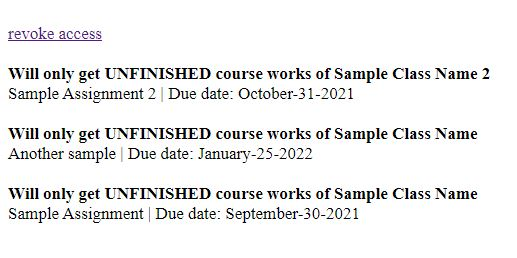
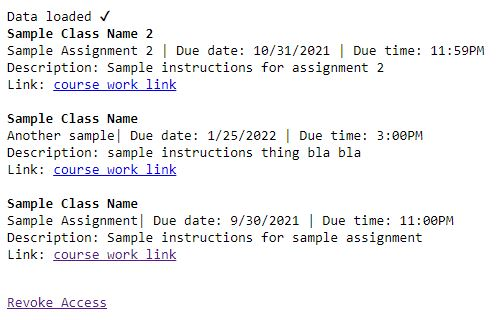
added ajax calls

Changed region(s): [[0.0, 0.031, 0.998, 0.8682], [0.0, 0.9302, 0.2117, 0.9922], [0.756, 0.4031, 0.877, 0.4341]]

diff --git a/script.js b/script.js
@@ -1,0 +1,82 @@
+let currentURL = window.location.href;
+let url = new URL(currentURL);
+let code = url.searchParams.get("code");
+
+let grantAccess = document.querySelector('#grantAccess');
+let data = document.querySelector('#data');
+
+let collection;
+
+const xhttp = new XMLHttpRequest();
+// initial loadout
+getAuthURL();
+
+if(code != null){
+    grantAccess.classList.add('hide-grant-acess');
+    data.innerHTML = 'Waiting for data to load...';
+    getCollection();
+}else{
+    console.log('no access code');
+}
+
+// puts the created auth url in the href
+function getAuthURL(){
+    xhttp.onload = function(){
+        if (this.readyState == 4 && this.status == 200) {
+            grantAccess.setAttribute('href', this.responseText);
+        }
+    }
+    xhttp.open("GET", "api.php", true);
+    xhttp.send();
+}
+
+function getCollection(){
+    xhttp.onload = function(){
+        if (this.readyState==4 && this.status == 200) {
+            collection = JSON.parse(this.response);
+            data.innerHTML = arrangingData(collection);
+        }
+    }
+    xhttp.open('POST', 'api.php?code=' + code, true);
+    xhttp.send();
+
+}
+
+function arrangingData(collection){
+    let html = 'Data loaded &#10004;<br>';
+        collection.forEach(element => {
+            let dueDate = element.dueDate;
+            let dueTime = element.dueTime;
+            https://stackoverflow.com/questions/6525538/convert-utc-date-time-to-local-date-time
+            var date = new Date(dueDate.month.toString() + '/' + dueDate.day.toString() + '/' + dueDate.year.toString() + ' ' +
+                (dueTime.hours == null ? '00' : dueTime.hours.toString()) + ':' +
+                (dueTime.minutes == null ? '00' : dueTime.minutes.toString()) + ' UTC');
+
+            let hours = date.getHours() == '0' ? '00' : date.getHours();
+            let minutes = date.getMinutes() == '0' ? '00' : date.getMinutes();
+
+            html += '<b>' + element.courseName + '</b><br>';
+            html += element.title + '| Due date: ' +
+                dueDate.month + '/' +
+                dueDate.day + '/' +
+                dueDate.year +' | Due time: '+
+                    timeConvert(hours + ':' + minutes) + '<br>' +
+                'Description: ' + element.description + '<br>' +
+                'Link: ' + '<a href=' + element.alternateLink + '>course work link</a>' +
+                '<br><br>'
+        });
+    return html;
+}
+
+// https://stackoverflow.com/questions/13898423/javascript-convert-24-hour-time-of-day-string-to-12-hour-time-with-am-pm-and-no
+function timeConvert (time) {
+    // Check correct time format and split into components
+    time = time.toString ().match (/^([01]\d|2[0-3])(:)([0-5]\d)(:[0-5]\d)?$/) || [time];
+  
+    if (time.length > 1) { // If time format correct
+      time = time.slice (1);  // Remove full string match value
+      time[5] = +time[0] < 12 ? 'AM' : 'PM'; // Set AM/PM
+      time[0] = +time[0] % 12 || 12; // Adjust hours
+    }
+    return time.join (''); // return adjusted time or original string
+}

diff --git a/index.html b/index.html
@@ -1,0 +1,16 @@
+<!DOCTYPE html>
+<html lang="en">
+<head>
+    <meta charset="UTF-8">
+    <meta http-equiv="X-UA-Compatible" content="IE=edge">
+    <meta name="viewport" content="width=device-width, initial-scale=1.0">
+    <script src="script.js" defer></script>
+    <link rel="stylesheet" href="style.css">
+    <title>Document</title>
+</head>
+<body>
+    <a id=grantAccess href="#"><pre>Grant Access</pre></a>
+    <pre id='data'></pre>
+    <pre><a href="revoke.php">Revoke Access</a></pre>
+</body>
+</html>

diff --git a/style.css b/style.css
@@ -1,0 +1,3 @@
+.hide-grant-acess{
+    display: none;
+}

diff --git a/api.php b/api.php
@@ -1,0 +1,50 @@
+<?php
+
+use function PHPSTORM_META\type;
+
+include('config.php');
+$course_collection = [];
+$coursework_collection = [];
+$collection = [];
+
+$flag = 0;
+if (isset($_GET['code'])) {
+    $token = $client->fetchAccessTokenWithAuthCode($_GET['code']);
+    if (!isset($token['error'])) {
+        $client->setAccessToken($token['access_token']);
+        $_SESSION['access_token'] = $token['access_token'];
+    }
+}
+
+if (isset($_SESSION['access_token'])) {
+    $client->setAccessToken($_SESSION['access_token']);
+    $service = new Google\Service\Classroom($client);
+    $data_courses = $service->courses->listCourses()->getCourses();
+    $data_courseWorks =  $service->courses_courseWork;
+    $data_studentSubmissions = $service->courses_courseWork_studentSubmissions;
+
+    foreach ($data_courses as $course) {
+        foreach ($data_courseWorks->listCoursesCourseWork($course->getId()) as $courseWork) {
+            foreach ($data_studentSubmissions->listCoursesCourseWorkStudentSubmissions($course->getId(), $courseWork->getId()) as $studentSubmission) {
+                if ($studentSubmission->getState() == 'CREATED') {
+                    if (is_null($courseWork->getDueDate())) {
+                        echo 'No data';
+                        $flag = 1;
+                        return;
+                    } else {
+                        $courseWork->courseName = $course->getname();
+                        array_push($collection, $courseWork);
+                    }
+                }
+            }
+        }
+    }
+    if($flag==0){
+        echo json_encode($collection);
+        // echo '<pre>' . var_dump($collection) . '</pre>';
+    }
+}
+
+if (!isset($_SESSION['access_token'])) {
+    echo $client->createAuthUrl();
+}

diff --git a/revoke.php b/revoke.php
@@ -3,5 +3,5 @@ include('config.php');
 $client->revokeToken();
 session_destroy();
 
-header('location:index.php');
+header('location:index.html');
 ?>

diff --git a/README.md b/README.md
@@ -1,6 +1,8 @@
 # trestle-backend
 ## Code Output
 ![alt text](https://github.com/GentleHome/trestle-backend-Google-Classroom-API-PHP/blob/master/output.JPG)
+## Video Output
+- https://www.youtube.com/watch?v=3pfZLs-4cNw
 ## Prerequisites 
 ### 1. Create a project on Google Console
 - Go to https://console.cloud.google.com
